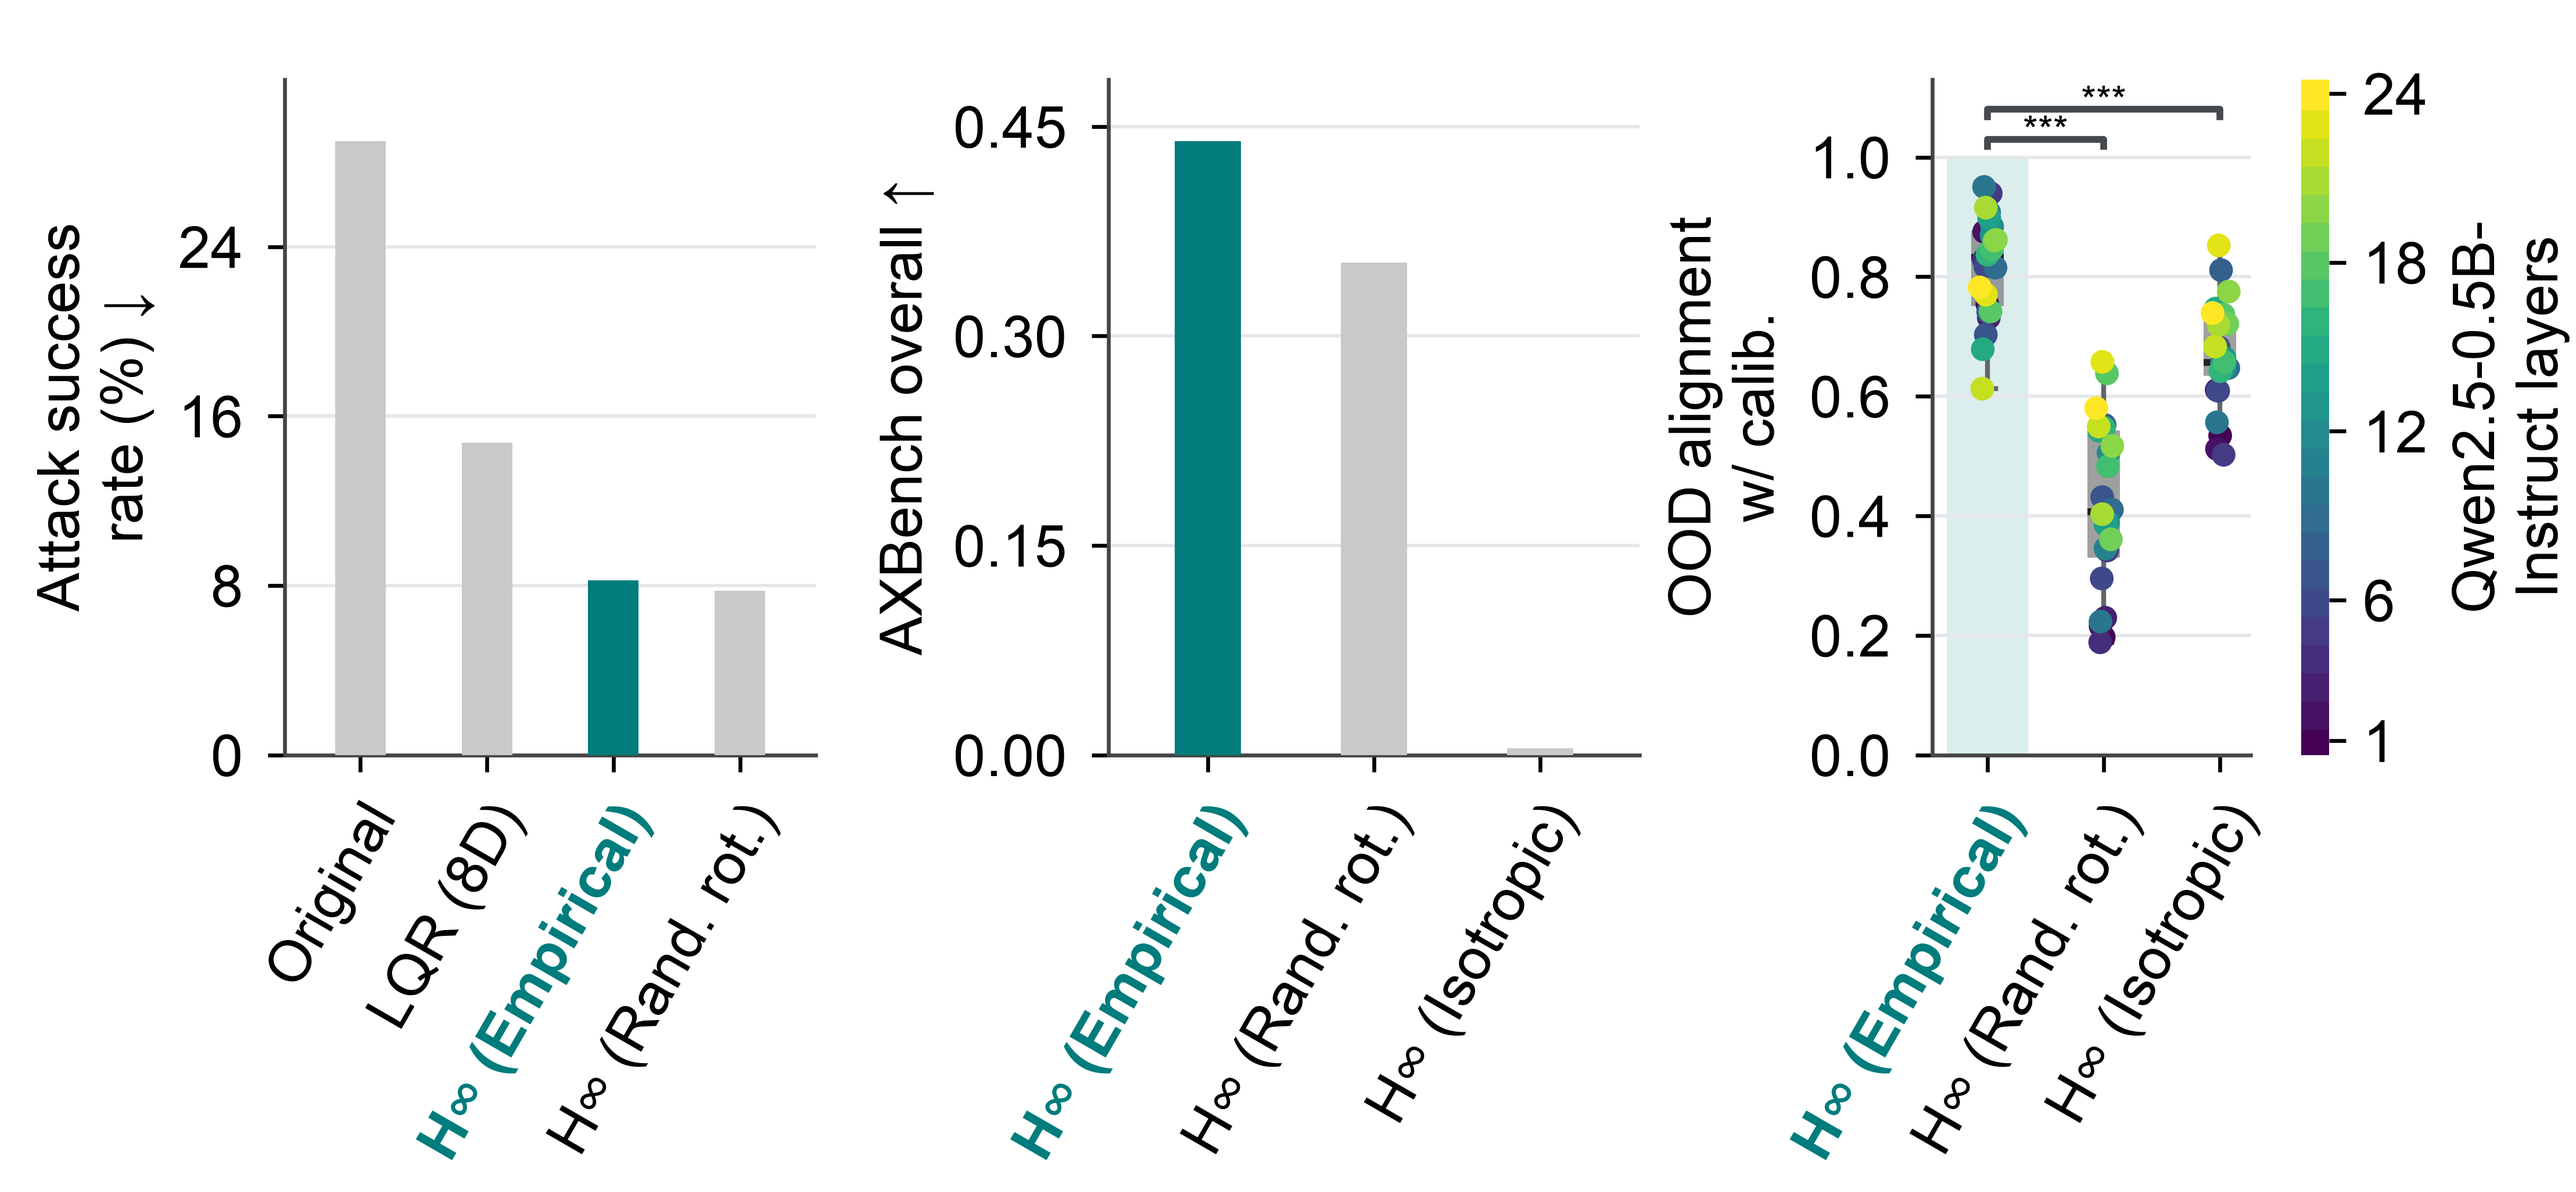
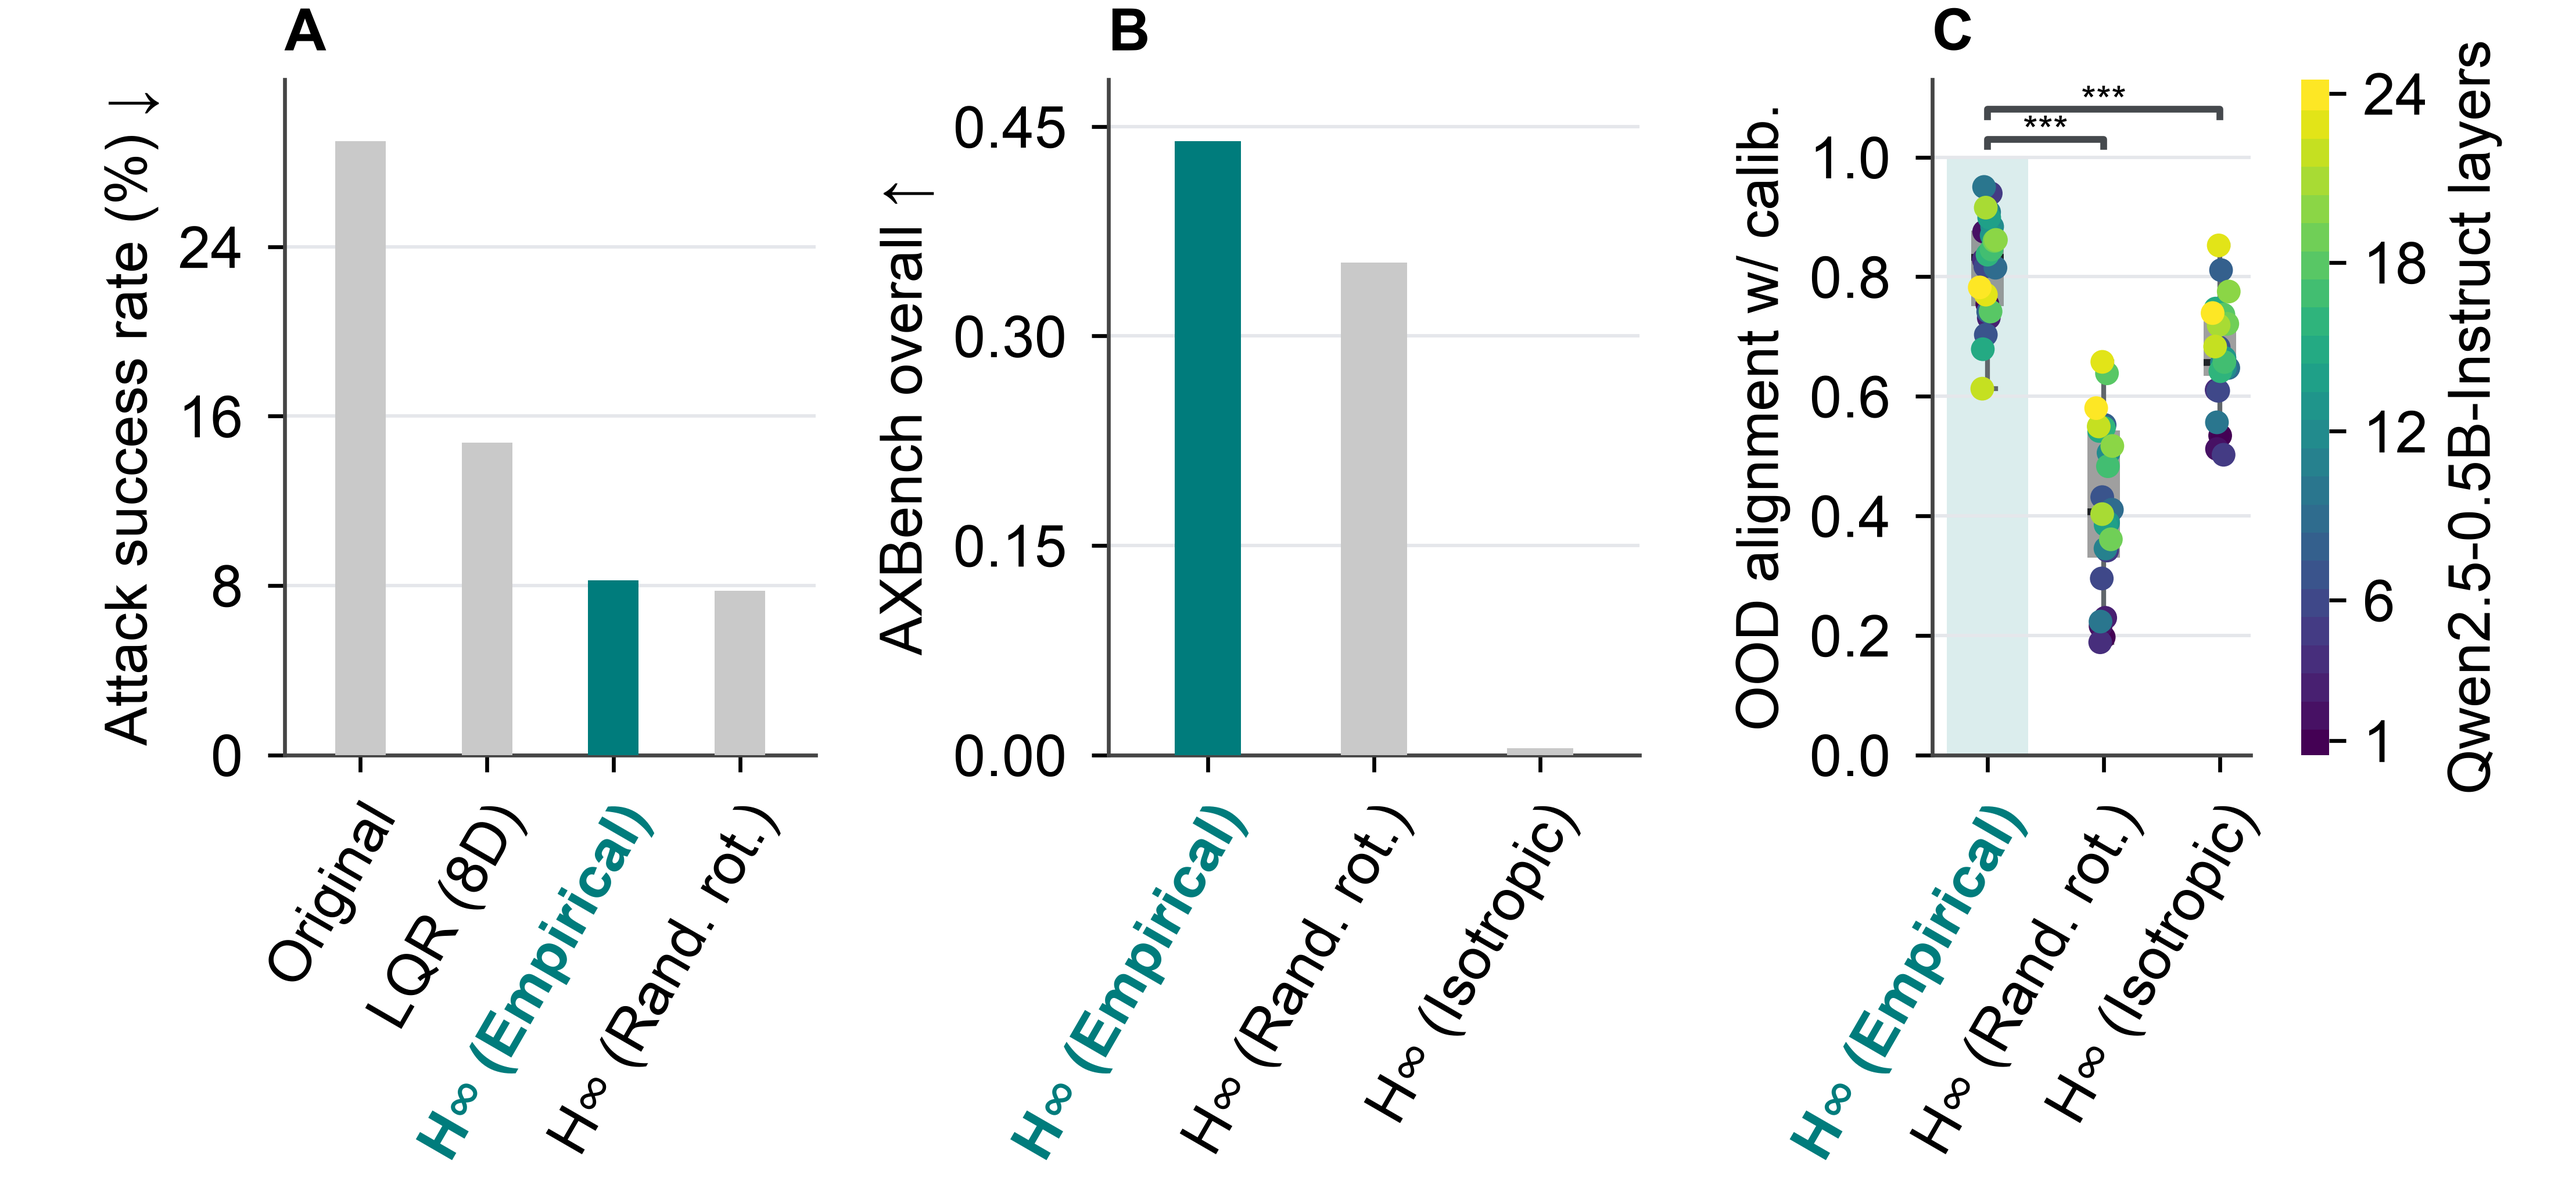
style: label geometry panels and restore single-line axes

diff --git a/parking/rudra_rebuttal_residual_geometry/geometry_final_for_paper.py b/parking/rudra_rebuttal_residual_geometry/geometry_final_for_paper.py
@@ -37,7 +37,7 @@ def draw_alignment(fig, ax, colorbar_axis):
         dots = ax.scatter(position + jitter, points, c=layers, cmap=cmap, norm=norm,
                           s=24, edgecolors='none', linewidths=0, zorder=3)
     ax.set(xticks=np.arange(3), xticklabels=LABELS[2:],
-           ylabel='OOD alignment\nw/ calib.', ylim=(0, 1.13))
+           ylabel='OOD alignment w/ calib.', ylim=(0, 1.13))
     ax.set_yticks(np.linspace(0, 1, 6))
     for endpoint, y, alternative in zip((1, 2), (1.03, 1.08), variants[1:], strict=True):
         ax.plot([0, 0, endpoint, endpoint], [y - .012, y, y, y - .012],
@@ -51,7 +51,7 @@ def draw_alignment(fig, ax, colorbar_axis):
     ax.grid(axis='y', color='#e5e7eb', linewidth=.7)
     ax.set_axisbelow(True)
     colorbar = fig.colorbar(dots, cax=colorbar_axis, boundaries=boundaries, drawedges=False)
-    colorbar.set_label('Qwen2.5-0.5B-\nInstruct layers')
+    colorbar.set_label('Qwen2.5-0.5B-Instruct layers')
     colorbar.set_ticks([1, 6, 12, 18, 24])
     colorbar.minorticks_off()
     colorbar.outline.set_visible(False)
@@ -87,7 +87,7 @@ def report():
         colorbar_axis = fig.add_axes([(alignment_x + alignment_width + .144) / figure_width,
                                      bottom, .08 / figure_width, height])
         draw_alignment(fig, alignment_axis, colorbar_axis)
-        panels = [('asr_pct', 'Attack success\nrate (%) ↓', METHODS[:-1]),
+        panels = [('asr_pct', 'Attack success rate (%) ↓', METHODS[:-1]),
                   ('overall', 'AXBench overall ↑', METHODS[2:])]
         for ax, (metric, label, methods) in zip(axes, panels, strict=True):
             panel_rows = [lookup[m] for m in methods]
@@ -107,6 +107,9 @@ def report():
             tick = ax.get_xticklabels()[methods.index('empirical')]
             tick.set_color(TEAL)
             tick.set_fontweight('bold')
+        for letter, ax in zip('ABC', [*axes, alignment_axis], strict=True):
+            ax.text(0, 1.025, letter, transform=ax.transAxes,
+                    ha='left', va='bottom', fontsize=12, fontweight='bold')
         for extension in ('png', 'pdf'):
             fig.savefig(UNIT / f'geometry_final_for_paper.{extension}', dpi=600)
         plt.close(fig)
